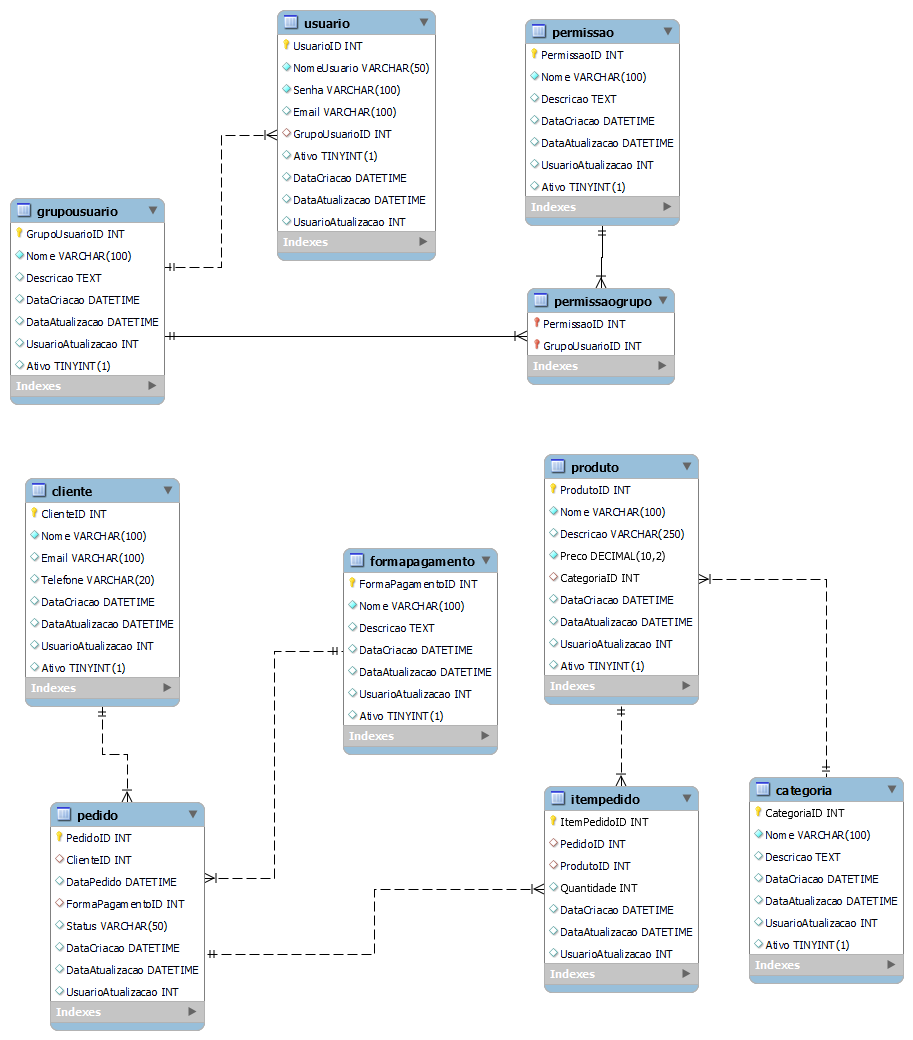
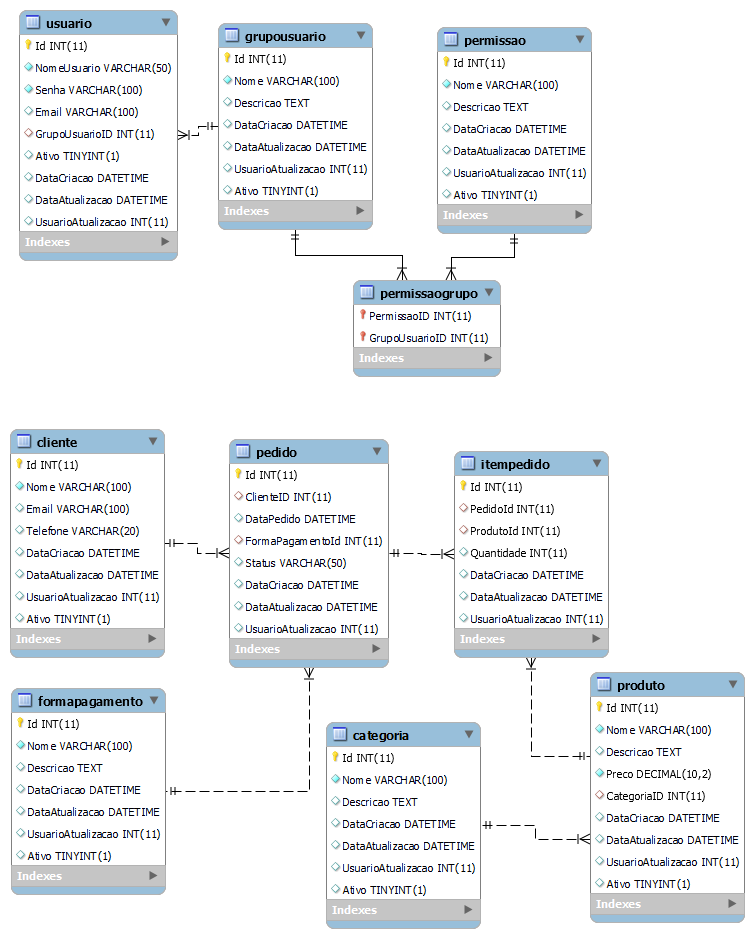
Update reademe

Changed region(s): [[0.2745, 0.4328, 1.0, 0.9893], [0.0, 0.0, 0.7931, 0.4019], [0.0, 0.4328, 0.244, 1.0]]

diff --git a/README.md b/README.md
@@ -1,2 +1,14 @@
-# sistema_vendas
+# Sistema de Vendas
 Sistema básico exemplificando as interações de uma aplicação desenvolvida a partir do seu banco de dados, contendo diagramas de cada camada do desenvolvimento.
+
+## Banco de Dados
+O sistema utiliza um banco de dados desenvolvido com o [MySql](https://www.mysql.com/)
+
+### Diagrama
+![image](/banco_de_dados/diagrama_bd.png)
+
+## Backend
+-- Reservado para o desenvolvimento em PHP
+
+## Frontend
+-- Reservado para o desenvolvimento em React
